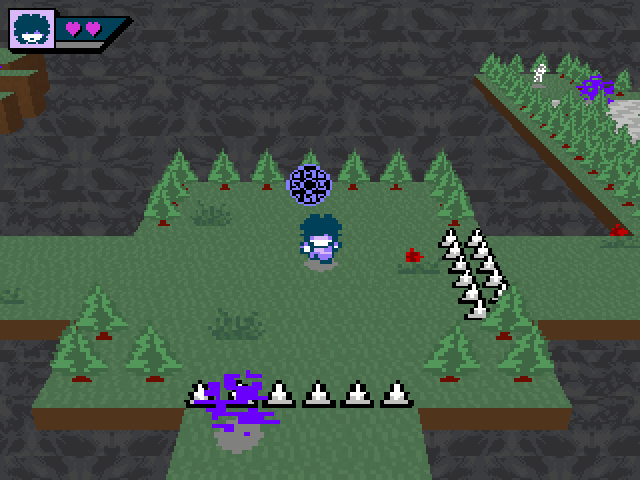
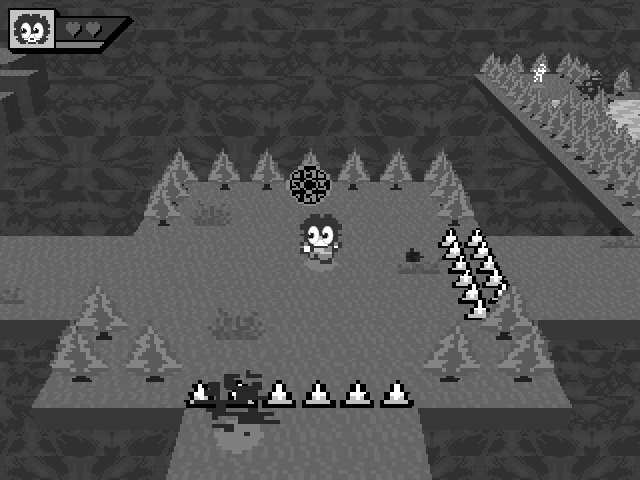
👀👀👀👀👀

diff --git a/scripts/main.js b/scripts/main.js
@@ -12,8 +12,8 @@ document.addEventListener('DOMContentLoaded', () => {
     if (document.querySelector('.latest-ver') != null)
         document.querySelector('.latest-ver').innerHTML = "v2.7.15"
     document.querySelector('header').innerHTML = 
-    `<center><h1>DF: Lost Memories</h1>
-    <p>DONTFORGET's cutting room floor</p>
+    `<center><h1>DF: Lost Media</h1>
+    <p>👀👀👀👀👀</p>
     <nav>
     <a href="index.html">Home</a> <a href="list.html">Index</a> <a href="resources.html">Resources</a> <a href="upcoming.html">Upcoming Articles</a> <a href="about.html" class="right">About</a> <a href="changelog.html">Changelog</a> <a href="https://discord.gg/BufyX2gqkq" target="_blank">Discord</a> <a href="javascript:toggleTheme()">Change Theme</a> <a href="/demo2/index.html" class="purple">Lost Timelines</a>
     </nav>

diff --git a/index.html b/index.html
@@ -16,9 +16,9 @@
 <body>
     <header></header>
     <center>
-        <img class="textbox" data-text="Welcome to  text=join color=#962cf0 DF: LOST MEMORIES text=join color=white !">
-        <img class="textbox" data-text="This is a website dedicated to documenting unused content in DF CONNECTED.">
-        <img class="textbox" data-text="The articles here are sorted by date, check out the categorized index in the navigation bar!">
+        <img class="textbox" data-text="Welcome to  text=join color=#962cf0 DF: LOST MEDIA text=join color=white">
+        <img class="textbox" data-text="did you see that">
+        <img class="textbox" data-text=":eyes: :eyes: :eyes: :eyes:">
     </center>
     <div class="grid-container"></div>
     <footer></footer>

diff --git a/style.css b/style.css
@@ -4,10 +4,10 @@
     --hflyer: #ff0076;
     --moriyx: #fca41c;
     --rickyg: #2cf5bb;
-    --chapter1: #d535d9;
-    --olddfc: #3a6794;
-    --newdfc: #ed1c24;
-    --demo2: #962cf0;
+    --chapter1: #626262;
+    --olddfc: #606060;
+    --newdfc: #494949;
+    --demo2: #505050;
     --bg: #090606;
     --text: white;
     --link: skyblue;
